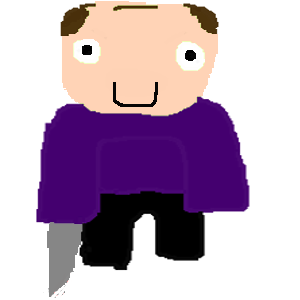
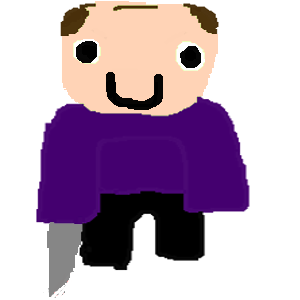
Got rid of objectCollide, art

Changed region(s): [[0.33, 0.24, 0.57, 0.39], [0.24, 0.12, 0.33, 0.21], [0.6, 0.15, 0.69, 0.24]]

diff --git a/Fired/Fired/Boss.cs b/Fired/Fired/Boss.cs
@@ -1,4 +1,4 @@
-using System;
+using System;
 using System.Collections.Generic;
 using System.Linq;
 using Microsoft.Xna.Framework;
@@ -11,13 +11,12 @@ using Microsoft.Xna.Framework.Media;
 
 namespace Fired
 {
-    class Employee : Character
+    class Boss : Character
     {
-        public Employee(int initX, int initY, int speed) :
+        public Boss(int initX, int initY, int speed) :
             base(initX, initY, speed)
         {
-            hitBox = new Rectangle(initX * Fired.TILE_SIZE, initY * Fired.TILE_SIZE, Fired.CHAR_SIZE, Fired.CHAR_SIZE);
-            image = new Rectangle(0, 0, 300, 300);
+
         }
 
         // Load the object content
@@ -31,15 +30,6 @@ namespace Fired
         {
             if (!exists)
                 return;
-
-            velocity.X = position.X - heroPosition.X;
-            velocity.Y = position.Y - heroPosition.Y;
-
-            velocity.Normalize();
-            velocity.X *= speed;
-            velocity.Y *= speed;
-
-            mapCollide(map);
         }
     }
 }

diff --git a/Fired/Fired/PhysObject.cs b/Fired/Fired/PhysObject.cs
@@ -58,12 +58,6 @@ namespace Fired
 
         }
 
-        // Handle collisions with other objects in map
-        public virtual void objectCollide(PhysObject other)
-        {
-
-        }
-
         public Vector2 getPosition()
         {
             return position;

diff --git a/Fired/Fired/SecurityGuard.cs b/Fired/Fired/SecurityGuard.cs
@@ -62,11 +62,5 @@ namespace Fired
                 }
             }
         }
-
-        // Handle collisions with other objects in map
-        public override void objectCollide(PhysObject other)
-        {
-
-        }
     }
 }

diff --git a/Fired/Fired/Hero.cs b/Fired/Fired/Hero.cs
@@ -55,11 +55,5 @@ namespace Fired
 
             mapCollide(map);
         }
-
-        // Handle collisions with other objects in map
-        public override void objectCollide(PhysObject other)
-        {
-
-        }
     }
 }

diff --git a/Fired/Fired/Swat.cs b/Fired/Fired/Swat.cs
@@ -40,11 +40,5 @@ namespace Fired
 
             mapCollide(map);
         }
-
-        // Handle collisions with other objects in map
-        public override void objectCollide(PhysObject other)
-        {
-
-        }
     }
 }
